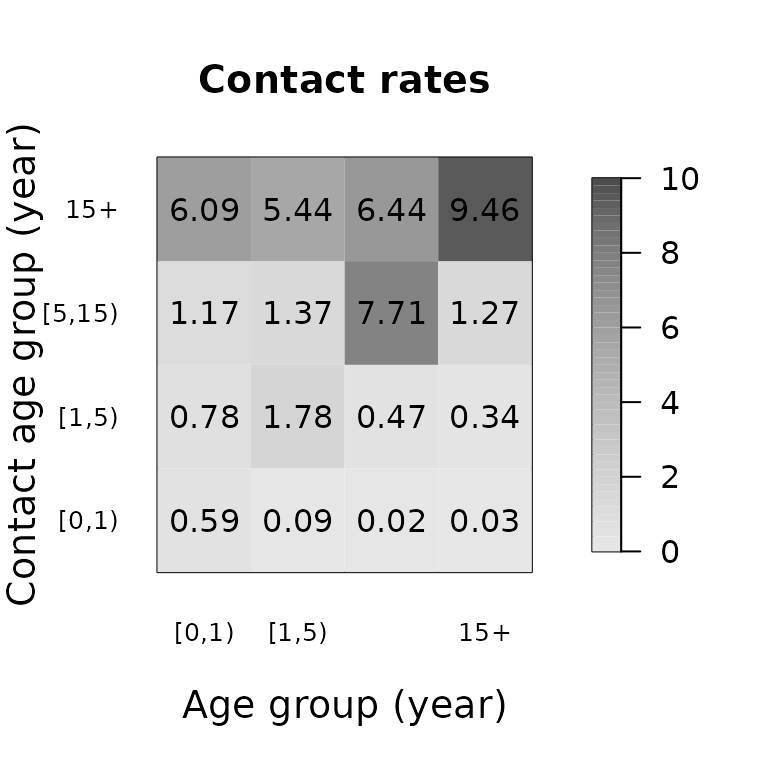
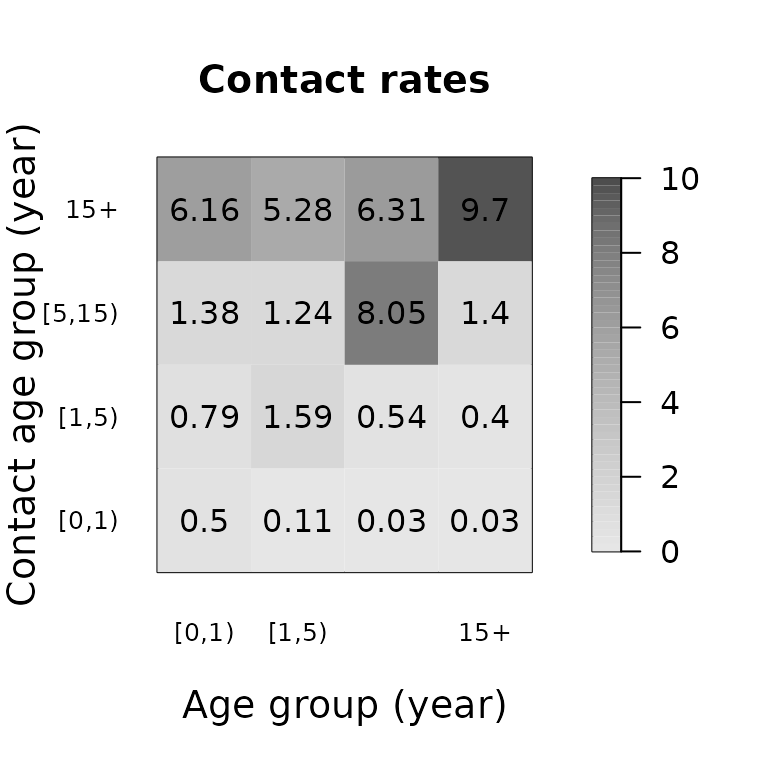
Deploying to gh-pages from @ epiforecasts/socialmixr@d3d4887175f21b2914ebb752b8e24715beb141ff 🚀

diff --git a/articles/socialmixr.html b/articles/socialmixr.html
@@ -72,7 +72,7 @@
                         <h4 data-toc-skip class="author">Sebastian
 Funk</h4>
             
-            <h4 data-toc-skip class="date">2023-10-18</h4>
+            <h4 data-toc-skip class="date">2023-10-19</h4>
       
       <small class="dont-index">Source: <a href="https://github.com/epiforecasts/socialmixr/blob/HEAD/vignettes/socialmixr.Rmd" class="external-link"><code>vignettes/socialmixr.Rmd</code></a></small>
       <div class="d-none name"><code>socialmixr.Rmd</code></div>
@@ -225,10 +225,10 @@ be obtained, for example the mean:</p>
 <span><span class="va">mr</span></span>
 <span><span class="co">#&gt;          contact.age.group</span></span>
 <span><span class="co">#&gt; age.group      [0,1)     [1,5)   [5,15)      15+</span></span>
-<span><span class="co">#&gt;    [0,1)  0.56277778 0.7027778 1.299444 6.204444</span></span>
-<span><span class="co">#&gt;    [1,5)  0.10139498 2.0302937 1.491160 5.457230</span></span>
-<span><span class="co">#&gt;    [5,15) 0.03777797 0.5407627 8.172264 6.149547</span></span>
-<span><span class="co">#&gt;    15+    0.02864035 0.3443298 1.301939 9.721638</span></span></code></pre></div>
+<span><span class="co">#&gt;    [0,1)  0.49746032 0.7860317 1.376667 6.163214</span></span>
+<span><span class="co">#&gt;    [1,5)  0.11185585 1.5920255 1.240737 5.281708</span></span>
+<span><span class="co">#&gt;    [5,15) 0.02901799 0.5362565 8.051843 6.314400</span></span>
+<span><span class="co">#&gt;    15+    0.03259944 0.3955389 1.399096 9.704168</span></span></code></pre></div>
 </div>
 <div class="section level2">
 <h2 id="demography">Demography<a class="anchor" aria-label="anchor" href="#demography"></a>
@@ -1312,8 +1312,11 @@ package.</p>
 the numeric values in the cells. Heat colors are used by default, though
 this can be changed.</p>
 <div class="sourceCode" id="cb29"><pre class="downlit sourceCode r">
-<code class="sourceCode R"><span><span class="fu"><a href="../reference/matrix_plot.html">matrix_plot</a></span><span class="op">(</span><span class="va">mr</span><span class="op">)</span></span>
-<span><span class="fu"><a href="../reference/matrix_plot.html">matrix_plot</a></span><span class="op">(</span><span class="va">mr</span>, color.palette <span class="op">=</span> <span class="va">gray.colors</span><span class="op">)</span></span></code></pre></div>
+<code class="sourceCode R"><span><span class="fu"><a href="../reference/matrix_plot.html">matrix_plot</a></span><span class="op">(</span><span class="va">mr</span><span class="op">)</span></span></code></pre></div>
+<p><img src="socialmixr_files/figure-html/unnamed-chunk-39-1.png" width="384"></p>
+<div class="sourceCode" id="cb30"><pre class="downlit sourceCode r">
+<code class="sourceCode R"><span><span class="fu"><a href="../reference/matrix_plot.html">matrix_plot</a></span><span class="op">(</span><span class="va">mr</span>, color.palette <span class="op">=</span> <span class="va">gray.colors</span><span class="op">)</span></span></code></pre></div>
+<p><img src="socialmixr_files/figure-html/unnamed-chunk-39-2.png" width="384"></p>
 </div>
 </div>
 <div class="section level2">

diff --git a/news/index.html b/news/index.html
@@ -48,7 +48,7 @@
     </div>
 
     <div class="section level2">
-<h2 class="pkg-version" data-toc-text="0.3.0" id="socialmixr-030">socialmixr 0.3.0<a class="anchor" aria-label="anchor" href="#socialmixr-030"></a></h2>
+<h2 class="pkg-version" data-toc-text="0.3.0" id="socialmixr-030">socialmixr 0.3.0<a class="anchor" aria-label="anchor" href="#socialmixr-030"></a></h2><p class="text-muted">CRAN release: 2023-10-18</p>
 <div class="section level3">
 <h3 id="major--breaking-changes-0-3-0">Major &amp; breaking changes<a class="anchor" aria-label="anchor" href="#major--breaking-changes-0-3-0"></a></h3>
 <ul><li>The <code>cite</code> function has been deprecated and replaced with <code>get_citation</code> (<a href="https://github.com/epiforecasts/socialmixr/issues/84" class="external-link">#84</a>).</li>
